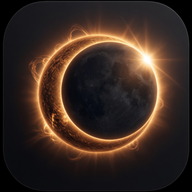
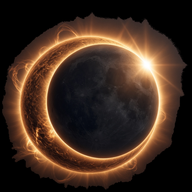
Put the eclipse and wordmark on one line
The rounded tile behind the mark is gone, so it sits on the same black as the app and lines up with the name.

diff --git a/src/components/Brand.tsx b/src/components/Brand.tsx
@@ -31,15 +31,15 @@ export function BrandWordmark({ size = "md" }: { size?: "sm" | "md" | "lg" }) {
 export function BrandLockup({ size = "sm" }: { size?: "sm" | "lg" }) {
   if (size === "lg") {
     return (
-      <span className="inline-flex flex-col items-center gap-4">
-        <BrandMark size={132} />
+      <span className="inline-flex items-center gap-4 whitespace-nowrap">
+        <BrandMark size={72} />
         <BrandWordmark size="lg" />
       </span>
     );
   }
   return (
-    <span className="inline-flex items-center gap-2.5">
-      <BrandMark size={40} />
+    <span className="inline-flex items-center gap-2 whitespace-nowrap">
+      <BrandMark size={36} />
       <BrandWordmark size="sm" />
     </span>
   );

diff --git a/src/components.tsx b/src/components.tsx
@@ -245,7 +245,7 @@ function Header() {
     >
       <div className="mx-auto flex max-w-6xl items-center gap-2 px-4 py-3 sm:gap-3 sm:px-6">
         <BackButton />
-        <Link to="/" className="shrink-0">
+        <Link to="/" className="inline-flex shrink-0 items-center">
           <BrandLockup />
         </Link>
         <nav className="hidden items-center gap-5 text-sm text-mute md:flex">
